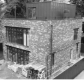
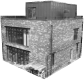
10

Changed region(s): [[0.0, 0.0, 1.0, 1.0]]

diff --git a/css/style.css b/css/style.css
@@ -4203,6 +4203,7 @@ model-viewer {
     .location__tags--title p {
         font-size: 18px;
         margin-bottom: 30px;
+        text-align: center;
     }
 
     .location__tag {
@@ -4214,7 +4215,7 @@ model-viewer {
     }
 
     .location__map--place {
-        margin-top: 24px;
+        margin-top: 20px;
     }
 
     .location__map .location__map--zoom {
@@ -4301,6 +4302,14 @@ model-viewer {
     .general__place--img model-viewer{
         width: 400px;
     }
+    .location__tag--list{
+        margin-right: 0;
+    }
+    .build_swiper .swiper-slide img{
+        width: 100%;
+        height: 100%;
+    }
+
 }
 @media (max-width: 550px) {
     .trees__maps {

diff --git a/index.html b/index.html
@@ -212,7 +212,7 @@
         <div thumbsSlider="" class="swiper build_swiper">
             <div class="swiper-wrapper">
                 <div class="swiper-slide">
-                    <img src="img/project_home.png">
+                    <img src="img/project_home2.png">
                 </div>
                 <div class="swiper-slide">
                     <img src="img/project_home.png">

diff --git a/js/main/script.js b/js/main/script.js
@@ -52,3 +52,4 @@ document.addEventListener('DOMContentLoaded', function () {
         },
     });
 });
+
